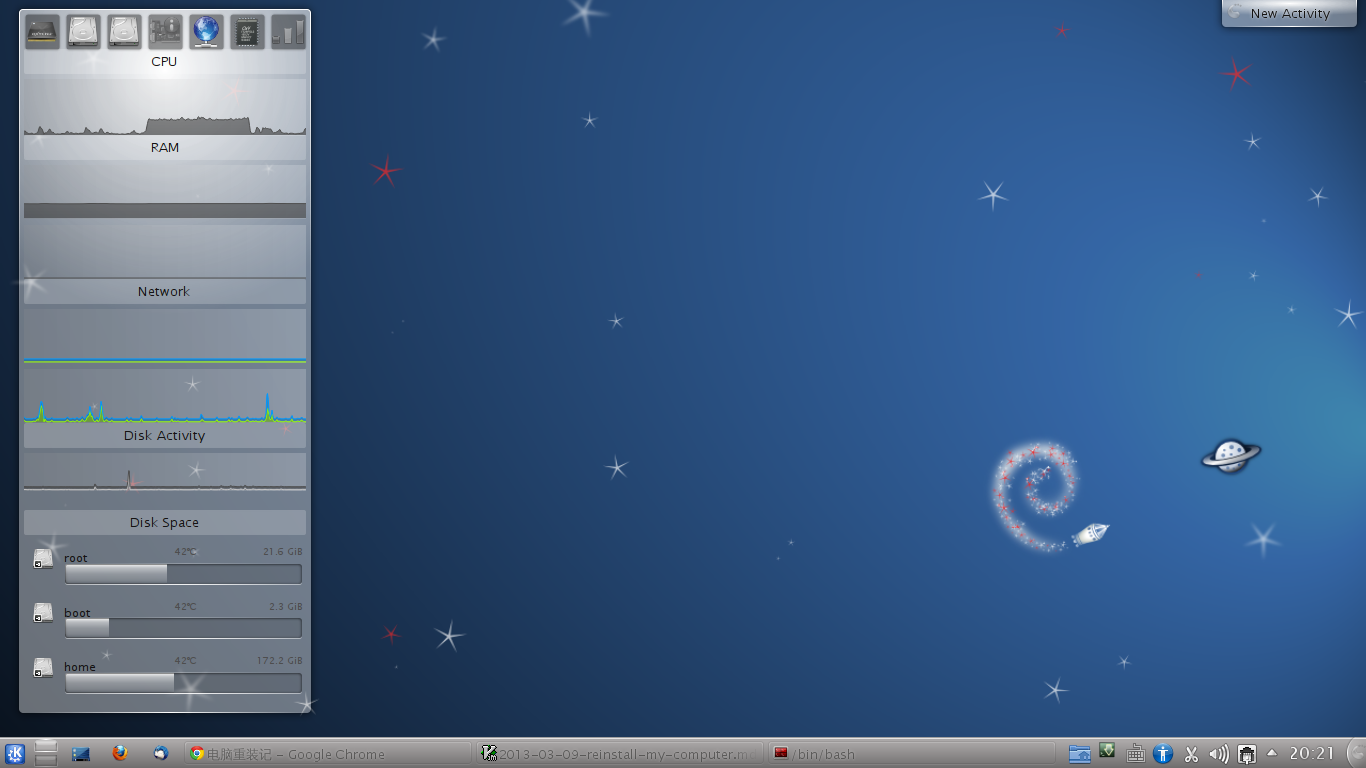
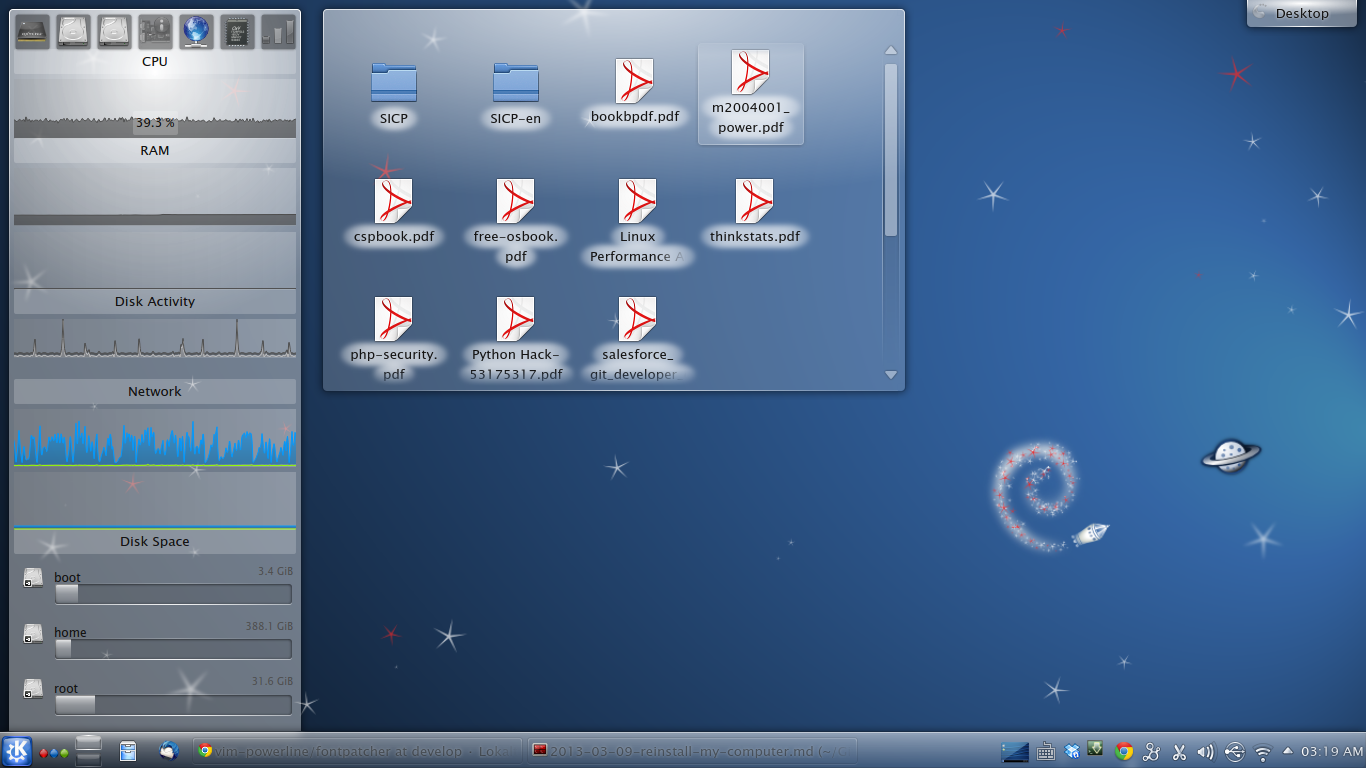
update reinstall-my-computer.md

diff --git a/_posts/2013-03-09-reinstall-my-computer.md b/_posts/2013-03-09-reinstall-my-computer.md
@@ -39,6 +39,19 @@ tags: [笔记]
 
 上述文字记录了我重装电脑之前的一些想法，以及给自己提个醒---不要忘记备份各种数据。
 
-最后，附上我的桌面截图：
+---
 
-<img src="/assets/pics/print-scr.png" alt="print-scr.png">
+安装完成后，遇到如下几个问题：
+
+1.
+中文显示不太正常，使用命令`apt-cache search wenquanyi`，找出所有文泉驿开源字体，安装即可。
+
+2.
+`pip install gevent`安装gevent，没法正常编译，只好使用`sudo apt-get install python-gevent`
+
+3.
+[powerline-shell](https://github.com/milkbikis/powerline-shell)中的特殊字体在终端中没法正常显示，按照文档说明的使用工具[fontpatcher](https://github.com/Lokaltog/vim-powerline/tree/develop/fontpatcher)来生成适用于powerline-shell的字体。可fontpatcher依赖于fontforge，`pip install fontforge`却说找不到fontforge，好吧，还是`sudo apt-get install python-fontforge`安装。然后按照普通字体的安装方式安装即可。
+
+最后附上一张重装后的桌面截图：
+
+<img src="assets/pics/print-scr.png" alt="print-scr.png">
